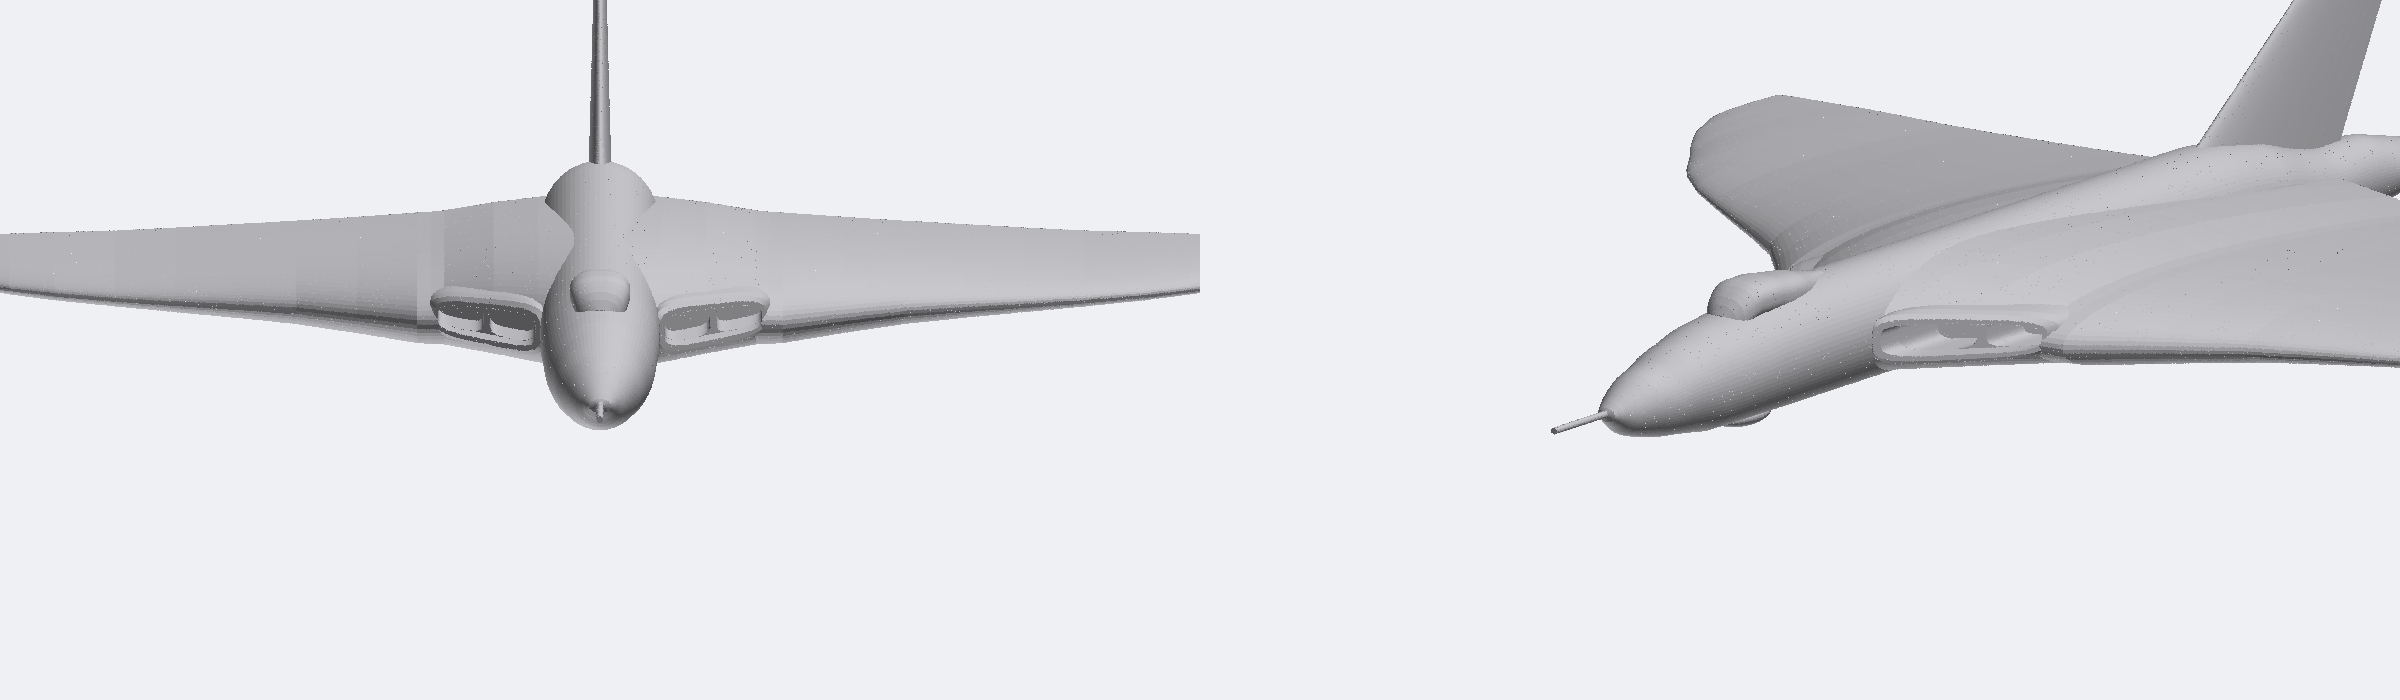
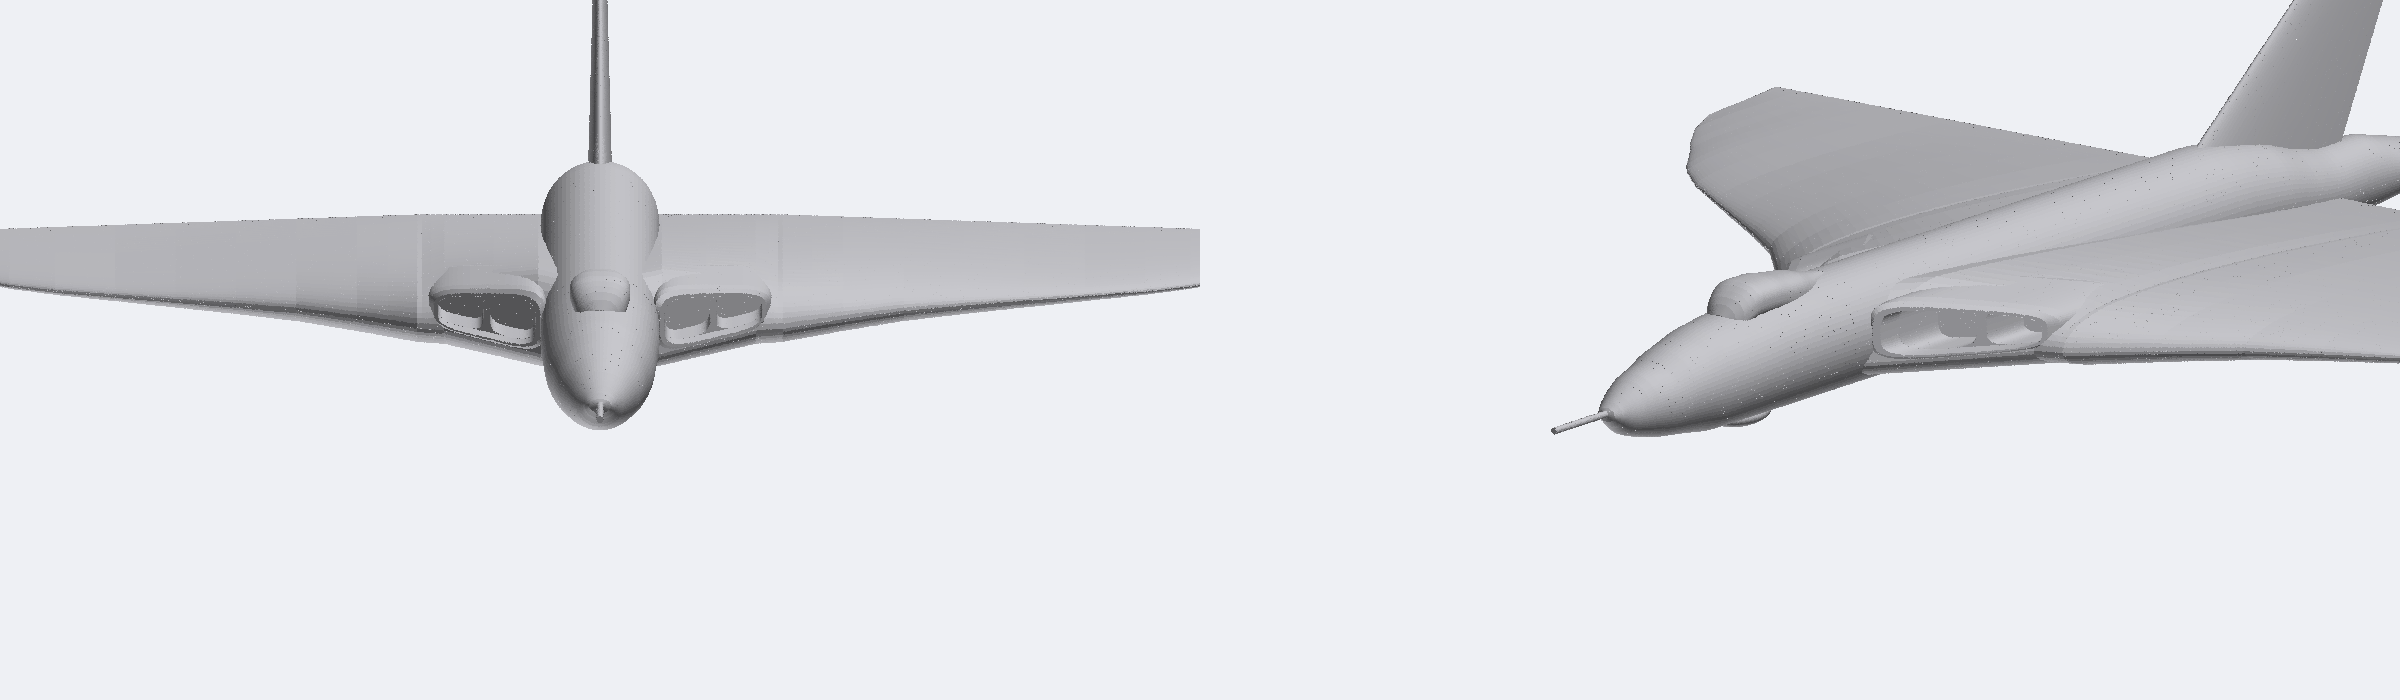
Vulcan v7: straight wing-root line over the engines, taller intakes (user review)
Claude-Session: https://claude.ai/code/session_01FcEUcZegY5CDPSXLcjAK9B

diff --git a/vulcan/cad/vulcan.py b/vulcan/cad/vulcan.py
@@ -100,6 +100,12 @@ WING_MIN_T = 1.7 * _P           # no section is thinner than this (the tip)
 # tip (the outer wings). Sections are deeper above it than below inboard, so the underside stays
 # flat and the top slopes down to the tip, as the drawings show.
 SPLIT_Z = -4.0
+# Inboard, over the engines, the wing's top is not an aerofoil hump: it climbs from the intake
+# lip to its crest just behind it and then runs almost straight down to the trailing edge, so it
+# meets the fuselage side on a straight line (Airfix side view, XH558 photos; user review).
+WING_ROOT_UP = [(0.0, 23.0), (20.0, 23.0), (57.0, 12.9)]   # (y, depth of the top above the split)
+WING_CREST = (0.12, 1.25)       # inboard: crest at this fraction of chord, then 1 - u^k to the trailing edge
+WING_CREST_BLEND = (25.0, 80.0)  # the inboard profile fades into the plain aerofoil over this span
 SPLIT_TIP_Z = -14.0
 WING_JOINT_Y = 57.0             # centre body / outer wing joint (just outboard of the intakes and jet pipes)
 RADOME_X = 24.0                 # the black radome is its own part ahead of this
@@ -110,16 +116,16 @@ WING_Y = [0.0, 10.0, 19.8, 34.0, 49.8, 54.0, 57.0, 58.5, 67.9, 77.8, 97.2, 116.5
 
 # Intakes: letterbox mouths in the swept inner leading edge, one per engine pair, split in two.
 INTAKE_Y = (17.0, 55.0)         # span of the blunt lip fairing
-INTAKE_ZC = 3.5
-INTAKE_RINGS = [(-1.5, 17.0, 7.6), (1.0, 18.5, 9.0), (6.0, 19.0, 9.5), (80.0, 19.0, 9.5),
-                (120.0, 17.0, 6.0)]   # distance behind the lip line, half-width, half-height
+INTAKE_ZC = 6.5
+INTAKE_RINGS = [(-1.5, 17.0, 9.6), (1.0, 18.5, 11.0), (6.0, 19.0, 11.5), (40.0, 19.0, 11.5),
+                (75.0, 17.0, 6.0)]   # distance behind the lip line, half-width, half-height
 INTAKE_MOUTH = (20.5, 52.0)     # y range of the one letterbox mouth (head-on photo, 1982)
 INTAKE_MOUTHS = [(20.5, 35.4), (37.1, 52.0)]   # the two ducts behind it, one per engine
 INTAKE_SPLIT = 9.0              # the wall between the ducts starts this far behind the lip
-INTAKE_MOUTH_Z = (-2.5, 9.5)
+INTAKE_MOUTH_Z = (-2.5, 15.0)
 INTAKE_DEPTH = 28.0
 INTAKE_N = 4.0
-INTAKE_TAPER = (0.72, -3.5)     # at the outer end the lip is this fraction as tall and this much
+INTAKE_TAPER = (0.55, -4.5)     # at the outer end the lip is this fraction as tall and this much
                                 # lower, so it runs into the thinner wing there (no ear above the skin)
 
 # Jet pipes: four, in pairs. Their fairings run under the wing from mid-chord (the side
@@ -294,11 +300,19 @@ def wing_ring(y, n=40):
     zs = split_z(y)
     dl = min(zs - WING_UNDER_Z, 0.55 * t)
     du = t - dl
+    ya = abs(y)
+    if ya <= WING_JOINT_Y:
+        r = np.asarray(WING_ROOT_UP)
+        du = float(np.interp(ya, r[:, 0], r[:, 1]))
     x = (1 - np.cos(np.pi * np.arange(n + 1) / n)) / 2
     f = 0.2969 * np.sqrt(x) - 0.1260 * x - 0.3516 * x**2 + 0.2843 * x**3 - 0.1036 * x**4
     f = f / f.max()
+    p, k = WING_CREST
+    fw = np.where(x < p, np.sqrt(np.clip(1 - (1 - x / p) ** 2, 0, 1)), 1 - np.clip((x - p) / (1 - p), 0, 1) ** k)
+    w = float(np.clip((ya - WING_CREST_BLEND[0]) / (WING_CREST_BLEND[1] - WING_CREST_BLEND[0]), 0, 1))
+    fu = (1 - w) * fw + w * f
     e = np.minimum(WING_TE_T, t) / 2 * x                  # half the trailing edge thickness, growing aft
-    up = np.c_[x * c, f * (du - e[-1]) + e][::-1]
+    up = np.c_[x * c, fu * (du - e[-1]) + e][::-1]
     lo = np.c_[x * c, -(f * (dl - e[-1]) + e)][1:]
     sec = np.vstack([up, lo])
     return np.c_[le + sec[:, 0], np.full(len(sec), y), zs + sec[:, 1]]

diff --git a/vulcan/README.md b/vulcan/README.md
@@ -11,9 +11,9 @@ Avro Vulcan B.2 at 1:96: 352 mm span, 317 mm long (336 mm with the refuelling pr
 
 ![shape in grey](docs/shape_grey.png)
 
-> **Status: v6: shape fitted to the Airfix A12011 plan and side views, and split into shells.** No joints, colour or print file yet. Not yet split into parts; no joints, colour or print file.
+> **Status: v7: shape fitted to the Airfix A12011 plan and side views, and split into shells.** No joints, colour or print file yet. Not yet split into parts; no joints, colour or print file.
 
-Intakes (v3): one letterbox mouth a side with the wall between the two engine ducts set back 9 mm, after the 1982 head-on photo. The lips taper into the thinner wing at their outer ends (v5). Still to do: the splitter plate at the fuselage.
+Intakes and wing root (v7, user review): one letterbox mouth a side, tall at the fuselage (about 60% of its depth, from the XH558 photos) and tapering outboard, with the wall between the two engine ducts set back 9 mm. Over the engines the wing's top is not an aerofoil hump: it reaches its crest just behind the intake lip and runs almost straight to the trailing edge, so it meets the fuselage on a straight line, as in the Airfix side view (`WING_ROOT_UP`, `WING_CREST`). Still to do: the splitter plate at the fuselage.
 
 ![intakes](docs/intakes_v3.png)
 

diff --git a/LESSONS.md b/LESSONS.md
@@ -481,3 +481,4 @@ Thin white markings from the X2D's second nozzle came out rough. Thicker layers 
 - **Wing area is a strong check on a planform.** It came out 13% low when an elevon hinge line was traced as the trailing edge, and within 1% once the planform was right (0.25% on the Airfix plan). It does not check the fuselage: the short tail cone passed it.
 - **A silhouette sheet traces by machine.** Row and column extents of a black silhouette give the leading edge, trailing edge and body lines directly, with no hand reading (`common/tools/silhouette.py` does the same for shaded drawings). Views on one sheet still need their own scales: the head-on view was 12% taller than the side view.
 - **Ruled lofts as point rings in manifold3d** (`ring_loft` in `vulcan/cad/vulcan.py`) need no CadQuery: the whole airframe builds in about 10 s, and sheared rings make a fairing along a swept edge (the intake lips).
+- **A thick delta's root is not an aerofoil.** Lofting the Vulcan's inboard wing as a NACA section put a hump where the wing meets the fuselage (user: "a curve I don't see in the references"). Over the engines the top crests just behind the intake lip and runs straight to the trailing edge. Look at where a wing's top meets the body in the side view before choosing its section.
